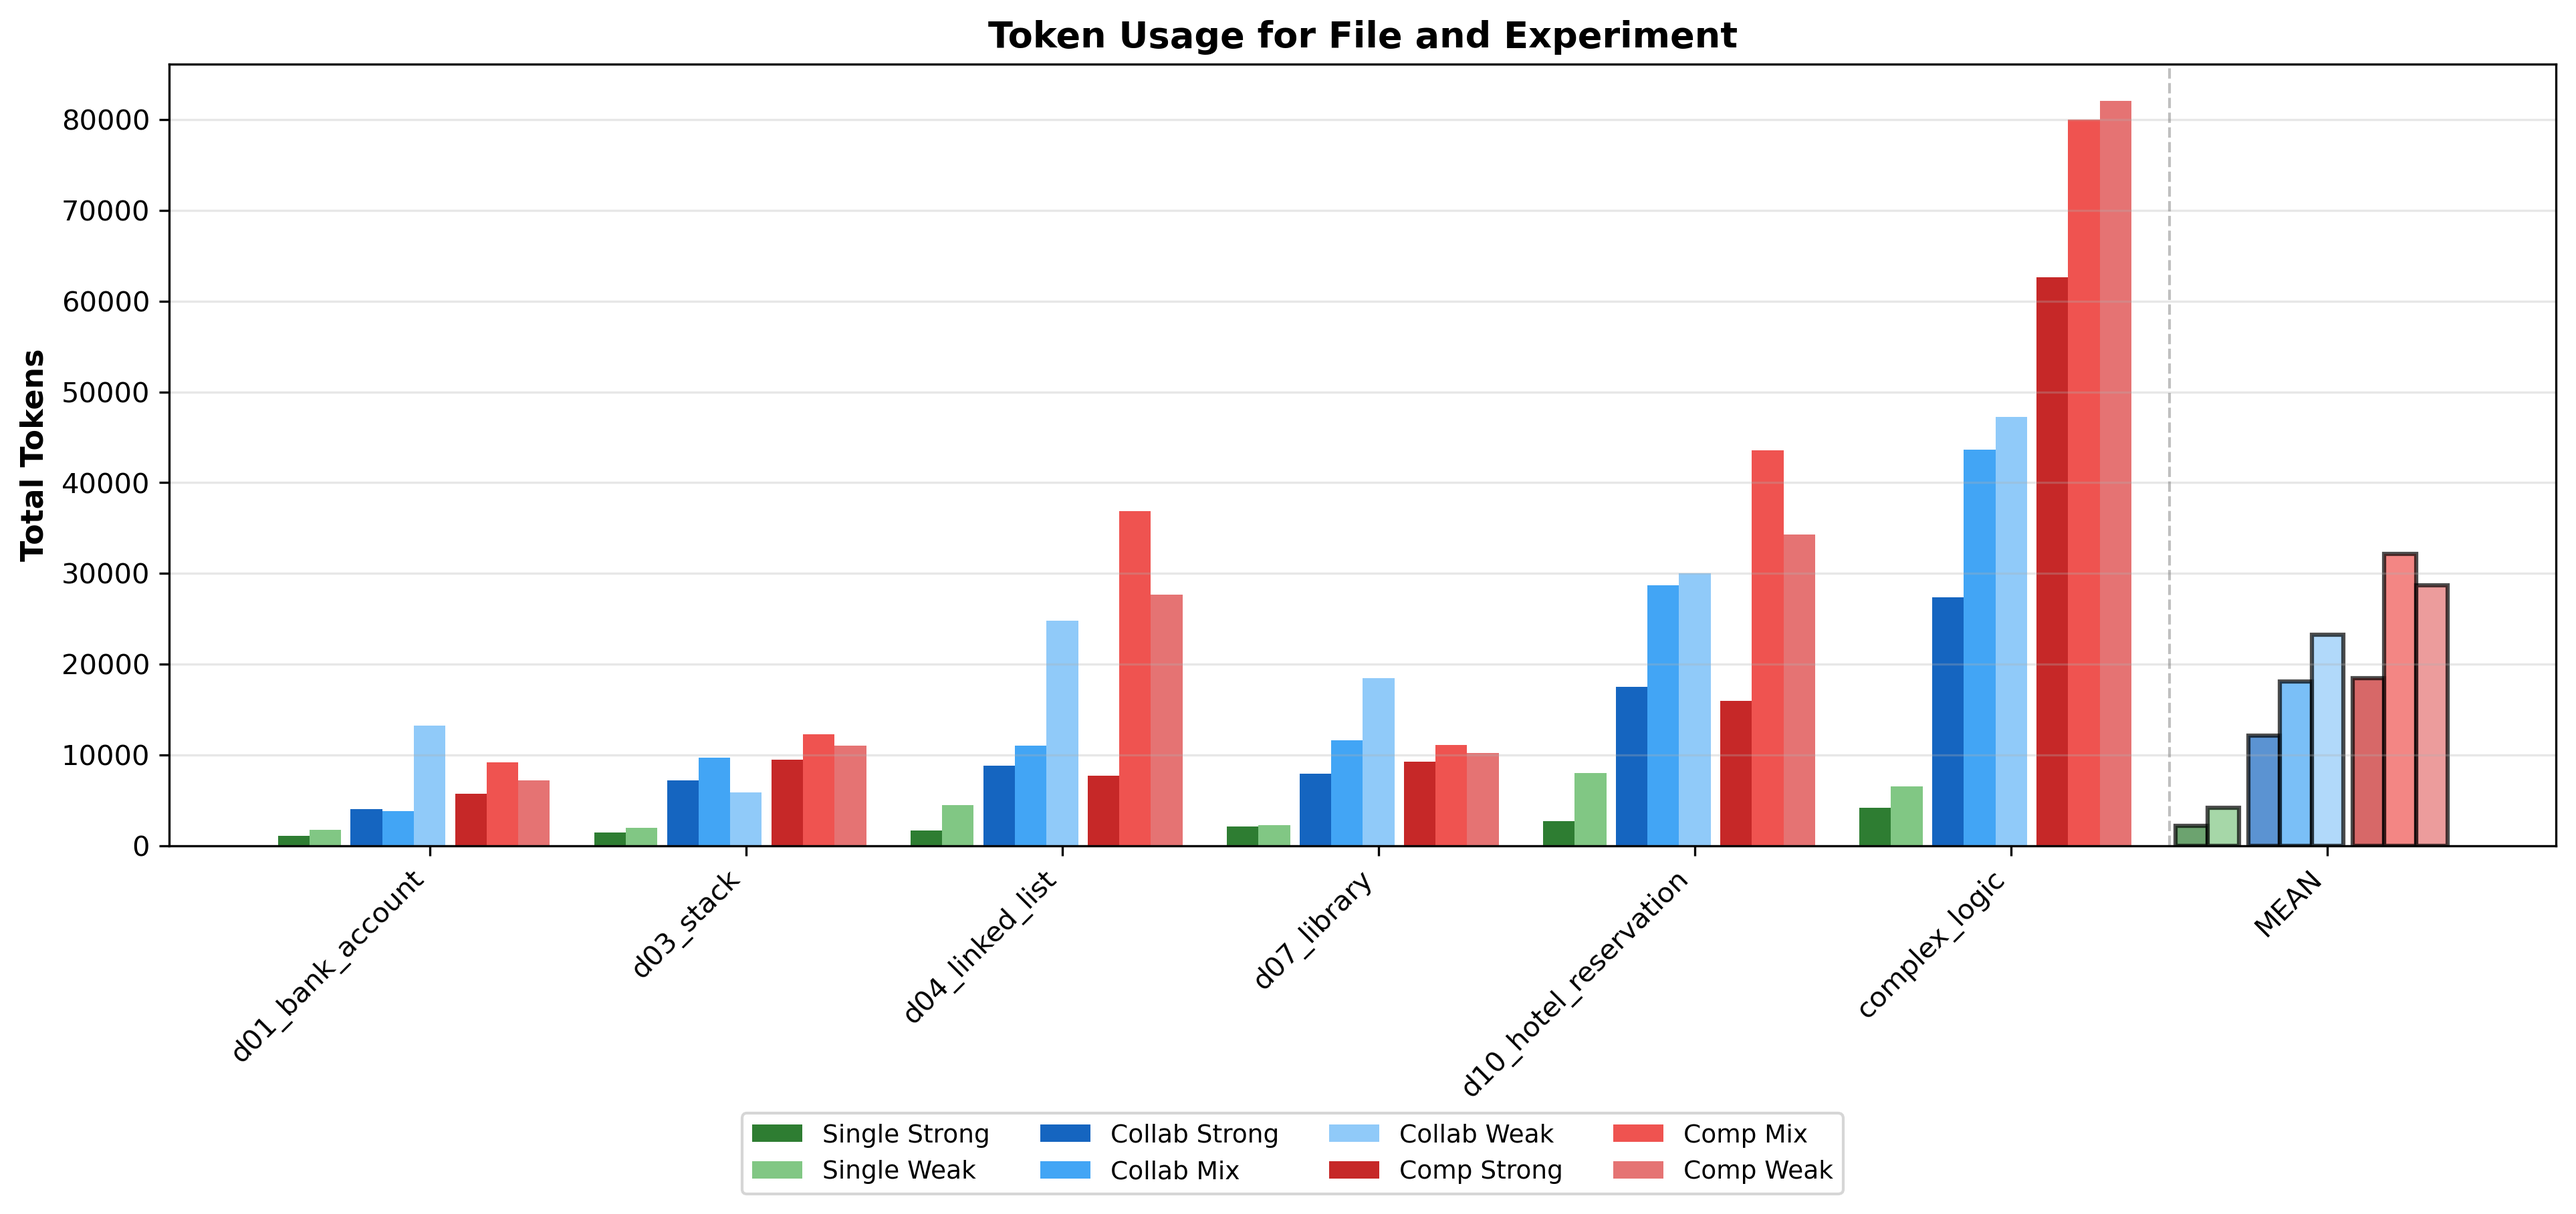
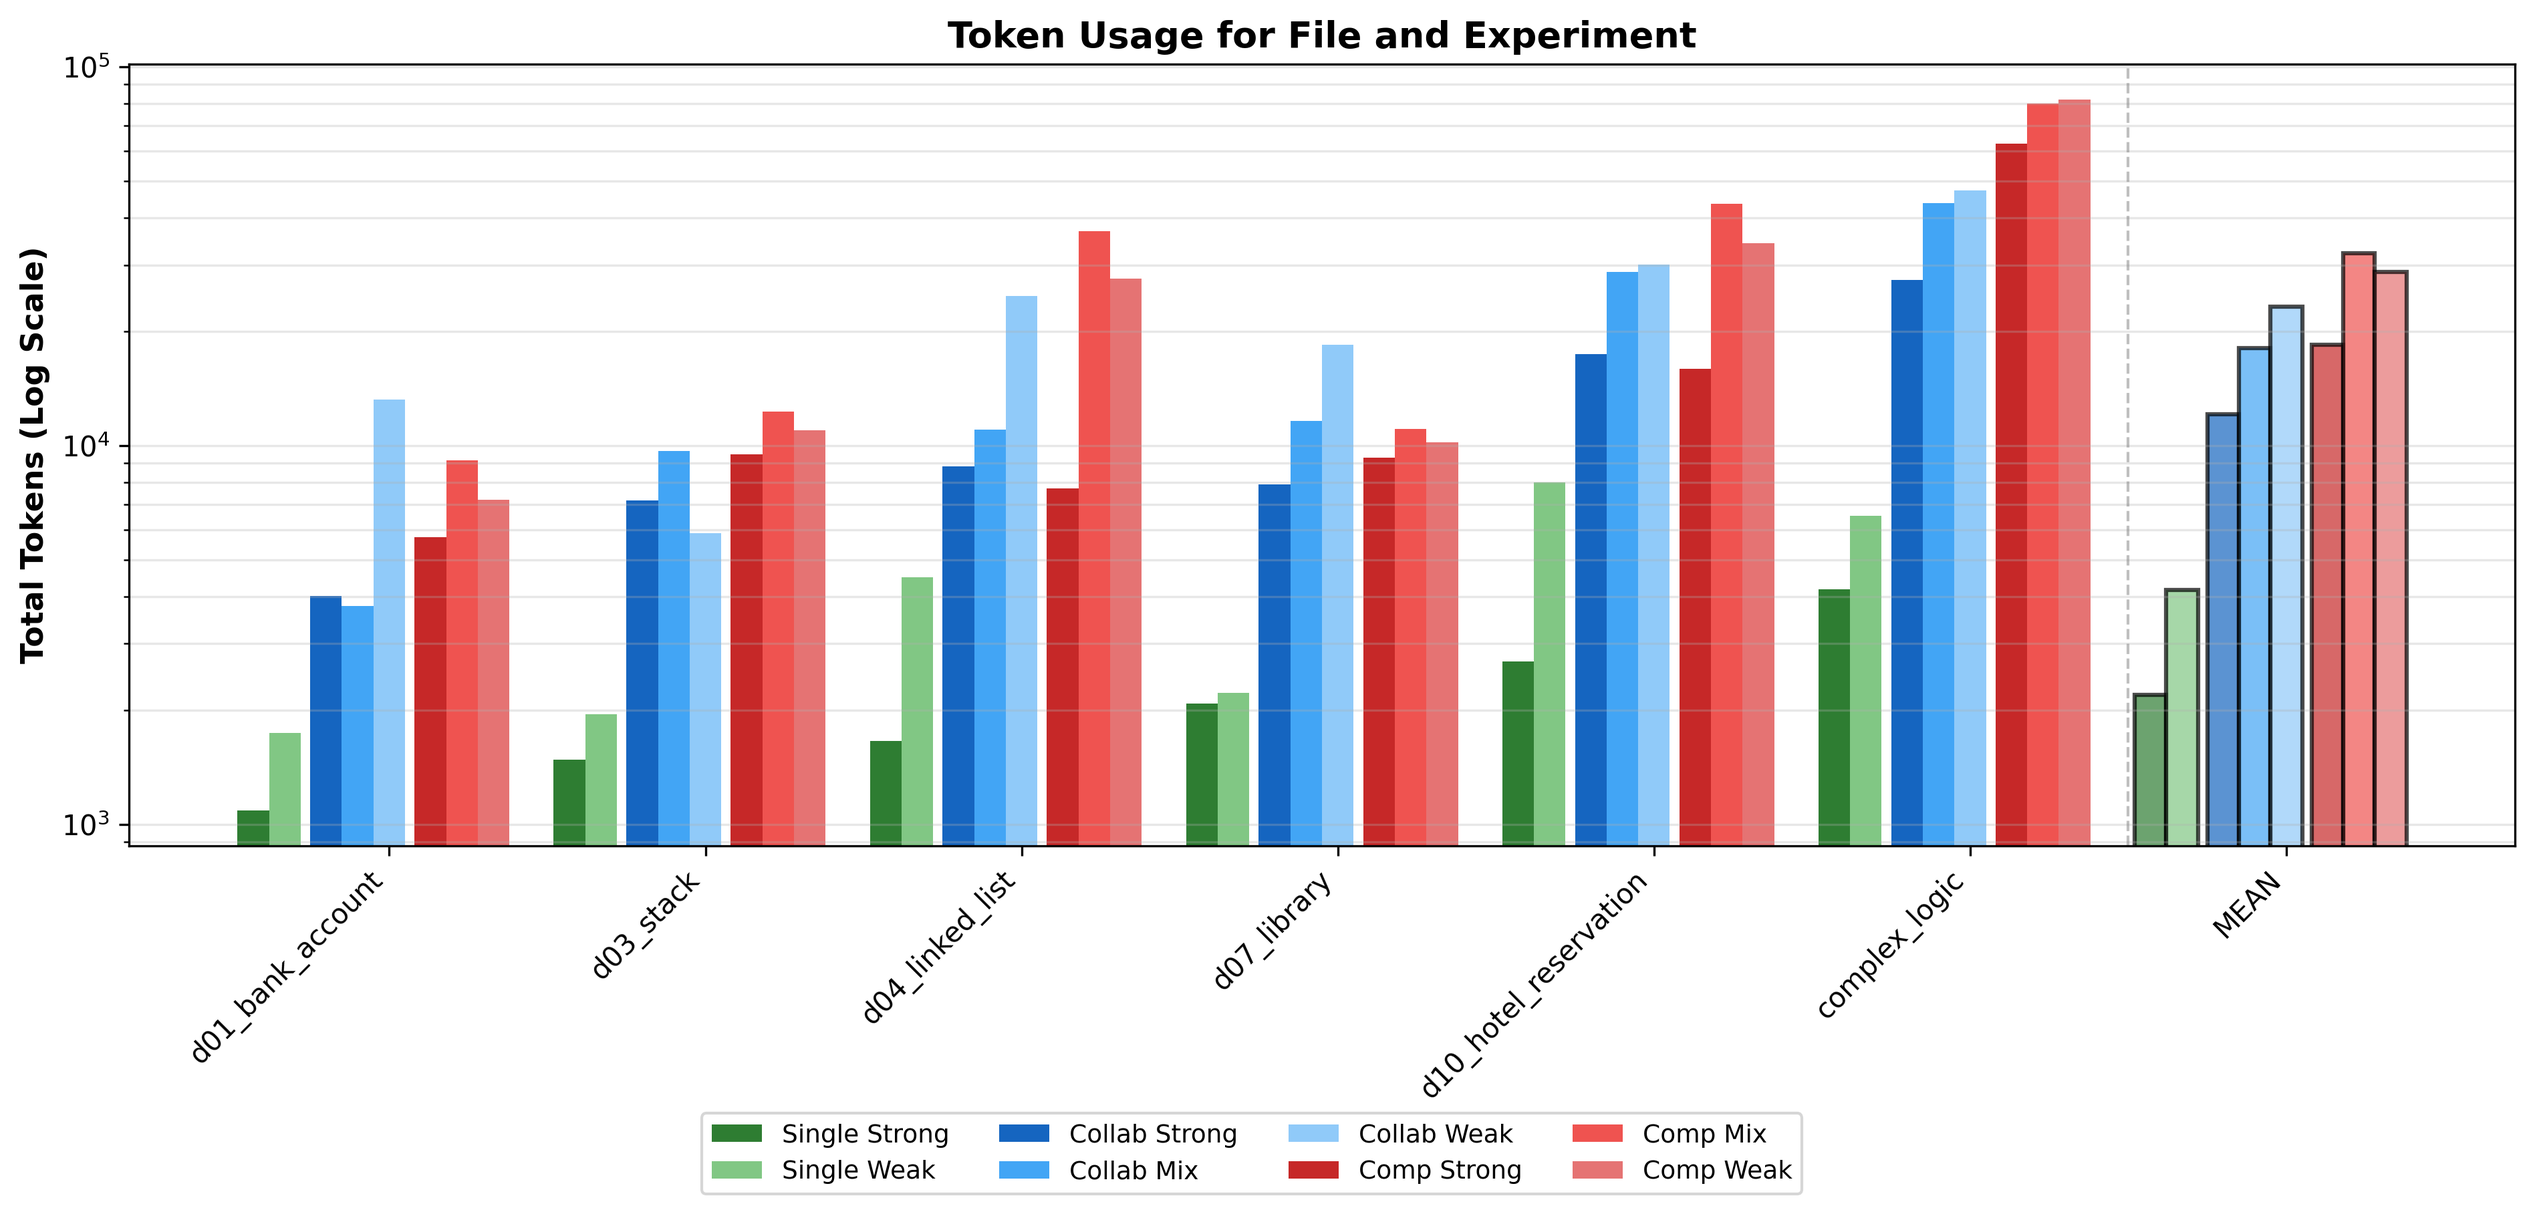
changed plot token usage to log scale

diff --git a/token_usage_plot.py b/token_usage_plot.py
@@ -10,7 +10,6 @@ from collections import defaultdict
 # CONFIGURAZIONE
 # ============================================================================
 
-# Assicurati che questo percorso punti alla tua cartella con i file .json
 INPUT_FOLDER = './results' 
 OUTPUT_FOLDER = './graphs_tokens'
 
@@ -210,16 +209,20 @@ def plot_token_usage(aggregated_data, output_folder):
         bars[-1].set_edgecolor('black')
         bars[-1].set_linewidth(1.5)
         
-    # ax.set_xlabel('File', fontweight='bold', fontsize=11)
-    ax.set_ylabel('Total Tokens', fontweight='bold', fontsize=11)
+    # Imposta la scala logaritmica
+    ax.set_yscale('log')
+    
+    # Aggiorna l'etichetta e il titolo
+    ax.set_ylabel('Total Tokens (Log Scale)', fontweight='bold', fontsize=11)
     ax.set_title('Token Usage for File and Experiment', fontweight='bold', fontsize=13)
     
-    # Pulisci etichette asse X
+    # Etichette asse X
     clean_labels = [f.replace('.py', '') for f in files_with_mean]
     ax.set_xticks(x)
     ax.set_xticklabels(clean_labels, rotation=45, ha='right')
     
-    ax.grid(axis='y', alpha=0.3)
+    # Importante: 'which="both"' mostra la griglia anche per le suddivisioni logaritmiche minori
+    ax.grid(axis='y', alpha=0.3, which="both")
     
     # Linea separatrice per MEAN
     ax.axvline(x=len(files) - 0.5, color='gray', linestyle='--', linewidth=1, alpha=0.5)
